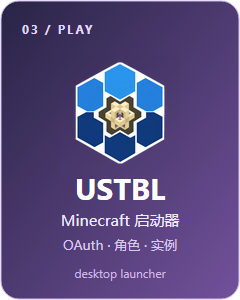
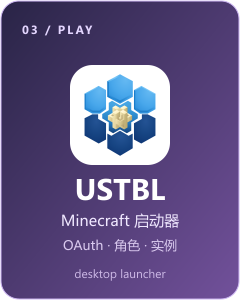
feat: 更新USTBL最新LOGO

diff --git a/README.md b/README.md
@@ -52,7 +52,7 @@
 </table>
 
 <h4>🧱 <a href="https://www.ustb.world/">vUSTB</a> · 像素北科</h4>
-<p align="center"><a href="https://www.ustb.world"><img src="https://pic1.imgdb.cn/i/034NYgfabbpYEh7N007hjp.png" alt="vUSTB 官网" width="19.7%" /></a><a href="https://github.com/LYOfficial/Jewel"><img src="https://pic1.imgdb.cn/i/034NWTWoxX8iUuBcVtq9hK.png" alt="Jewel 仓库" width="19.7%" /></a><a href="https://github.com/LYOfficial/USTBL"><img src="https://pic1.imgdb.cn/i/034NYgaiuBgufBE5BgohHZ.png" alt="USTBL 仓库" width="19.7%" /></a><a href="https://github.com/iJunecn/vBot"><img src="https://pic1.imgdb.cn/i/034NWTYynaddmVOxDuH0tR.png" alt="vBot 仓库" width="19.7%" /></a><a href="https://github.com/LYOfficial/AnyshareCLI"><img src="https://pic1.imgdb.cn/i/034NWTXb1ITlwURcEfJFbb.png" alt="AnyshareCLI 仓库" width="19.7%" /></a></p>
+<p align="center"><a href="https://www.ustb.world"><img src="https://pic1.imgdb.cn/i/034NYgfabbpYEh7N007hjp.png" alt="vUSTB 官网" width="19.7%" /></a><a href="https://github.com/LYOfficial/Jewel"><img src="https://pic1.imgdb.cn/i/034NWTWoxX8iUuBcVtq9hK.png" alt="Jewel 仓库" width="19.7%" /></a><a href="https://github.com/LYOfficial/USTBL"><img src="https://pic1.imgdb.cn/i/034P9Ciy0dATQQPDeTvTjM.png" alt="USTBL 仓库" width="19.7%" /></a><a href="https://github.com/iJunecn/vBot"><img src="https://pic1.imgdb.cn/i/034NWTYynaddmVOxDuH0tR.png" alt="vBot 仓库" width="19.7%" /></a><a href="https://github.com/LYOfficial/AnyshareCLI"><img src="https://pic1.imgdb.cn/i/034NWTXb1ITlwURcEfJFbb.png" alt="AnyshareCLI 仓库" width="19.7%" /></a></p>
 <a href="https://www.ustb.world/"><img src="https://pic1.imgdb.cn/i/034NWTc0w2PluHuqfBg1tr.png" alt="vUSTB 生态详细数据流程图" width="100%" /></a>
 <p align="center"><a href="https://www.ustb.world">官网</a> · <a href="https://github.com/LYOfficial/Jewel">Jewel</a> · <a href="https://github.com/LYOfficial/USTBL">USTBL</a> · <a href="https://github.com/iJunecn/vBot">vBot</a> · <a href="https://github.com/LYOfficial/AnyshareCLI">AnyshareCLI</a> · <a href="./works.md#vustb--像素北科生态">作品集</a></p>
 
